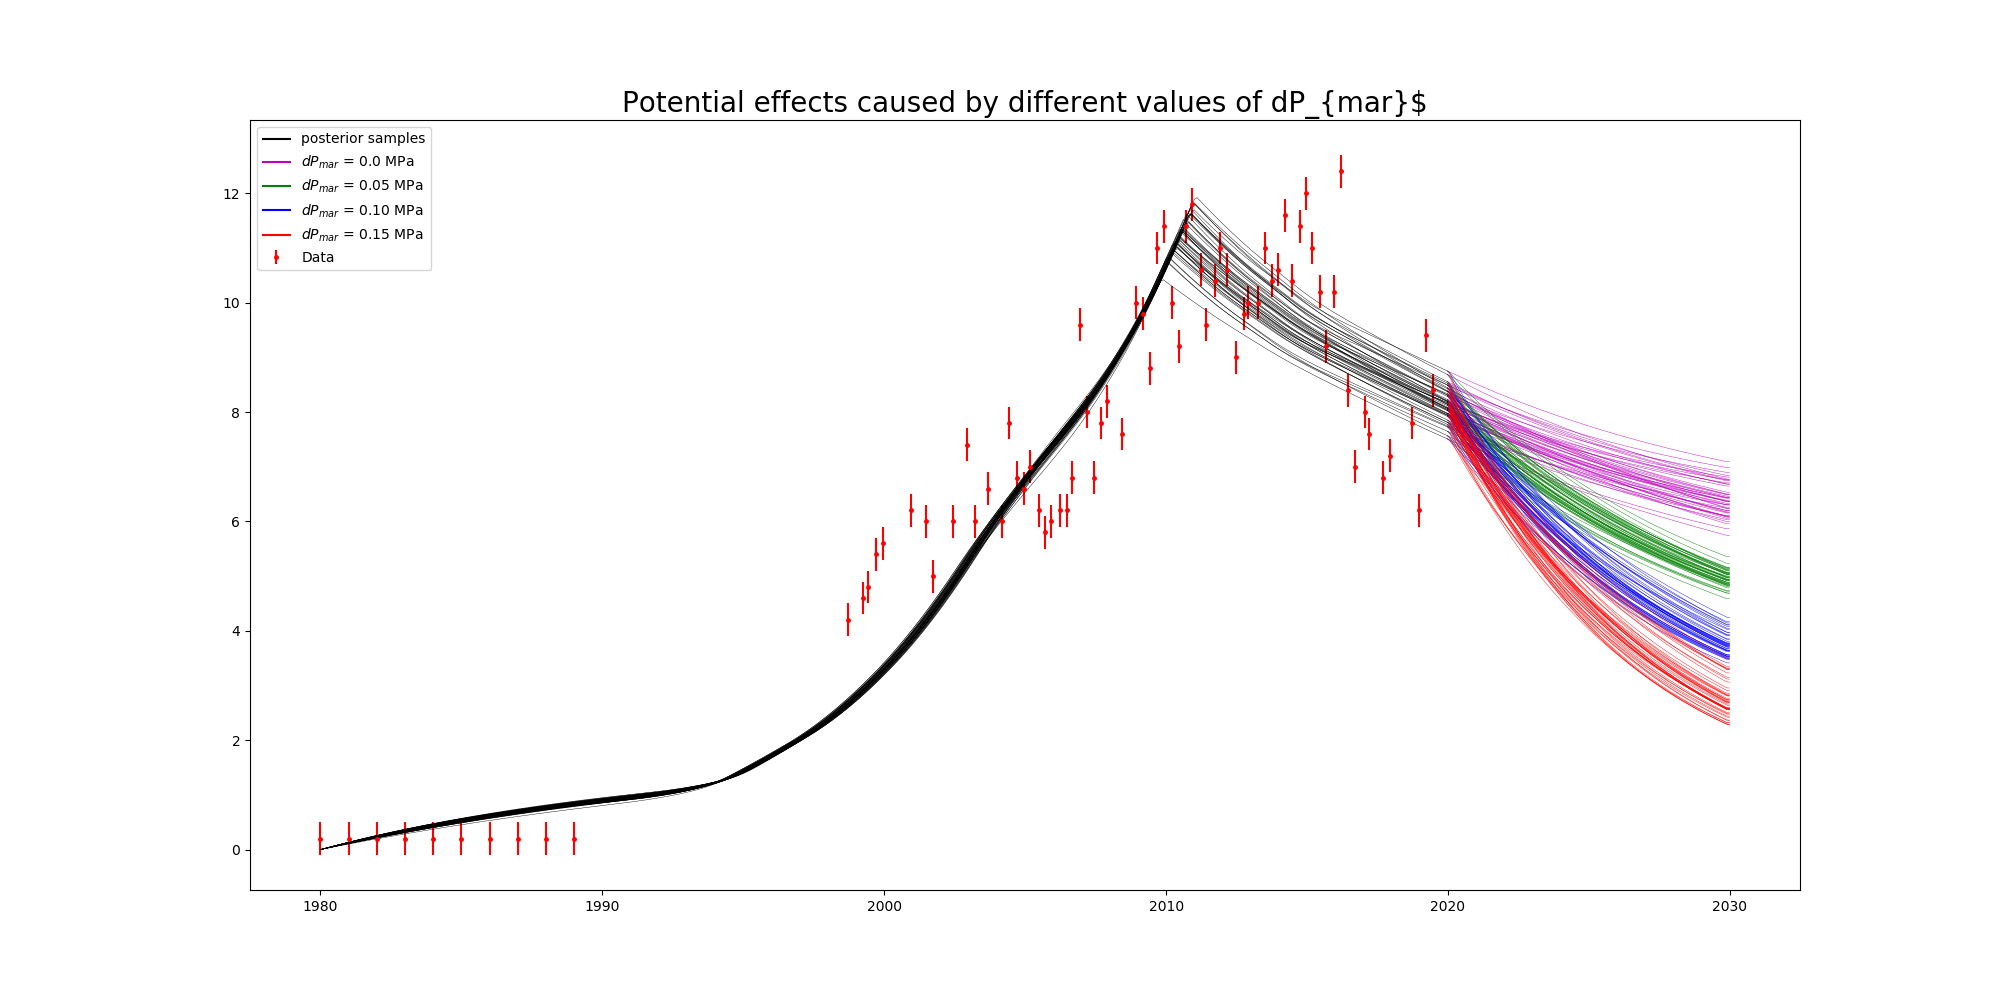
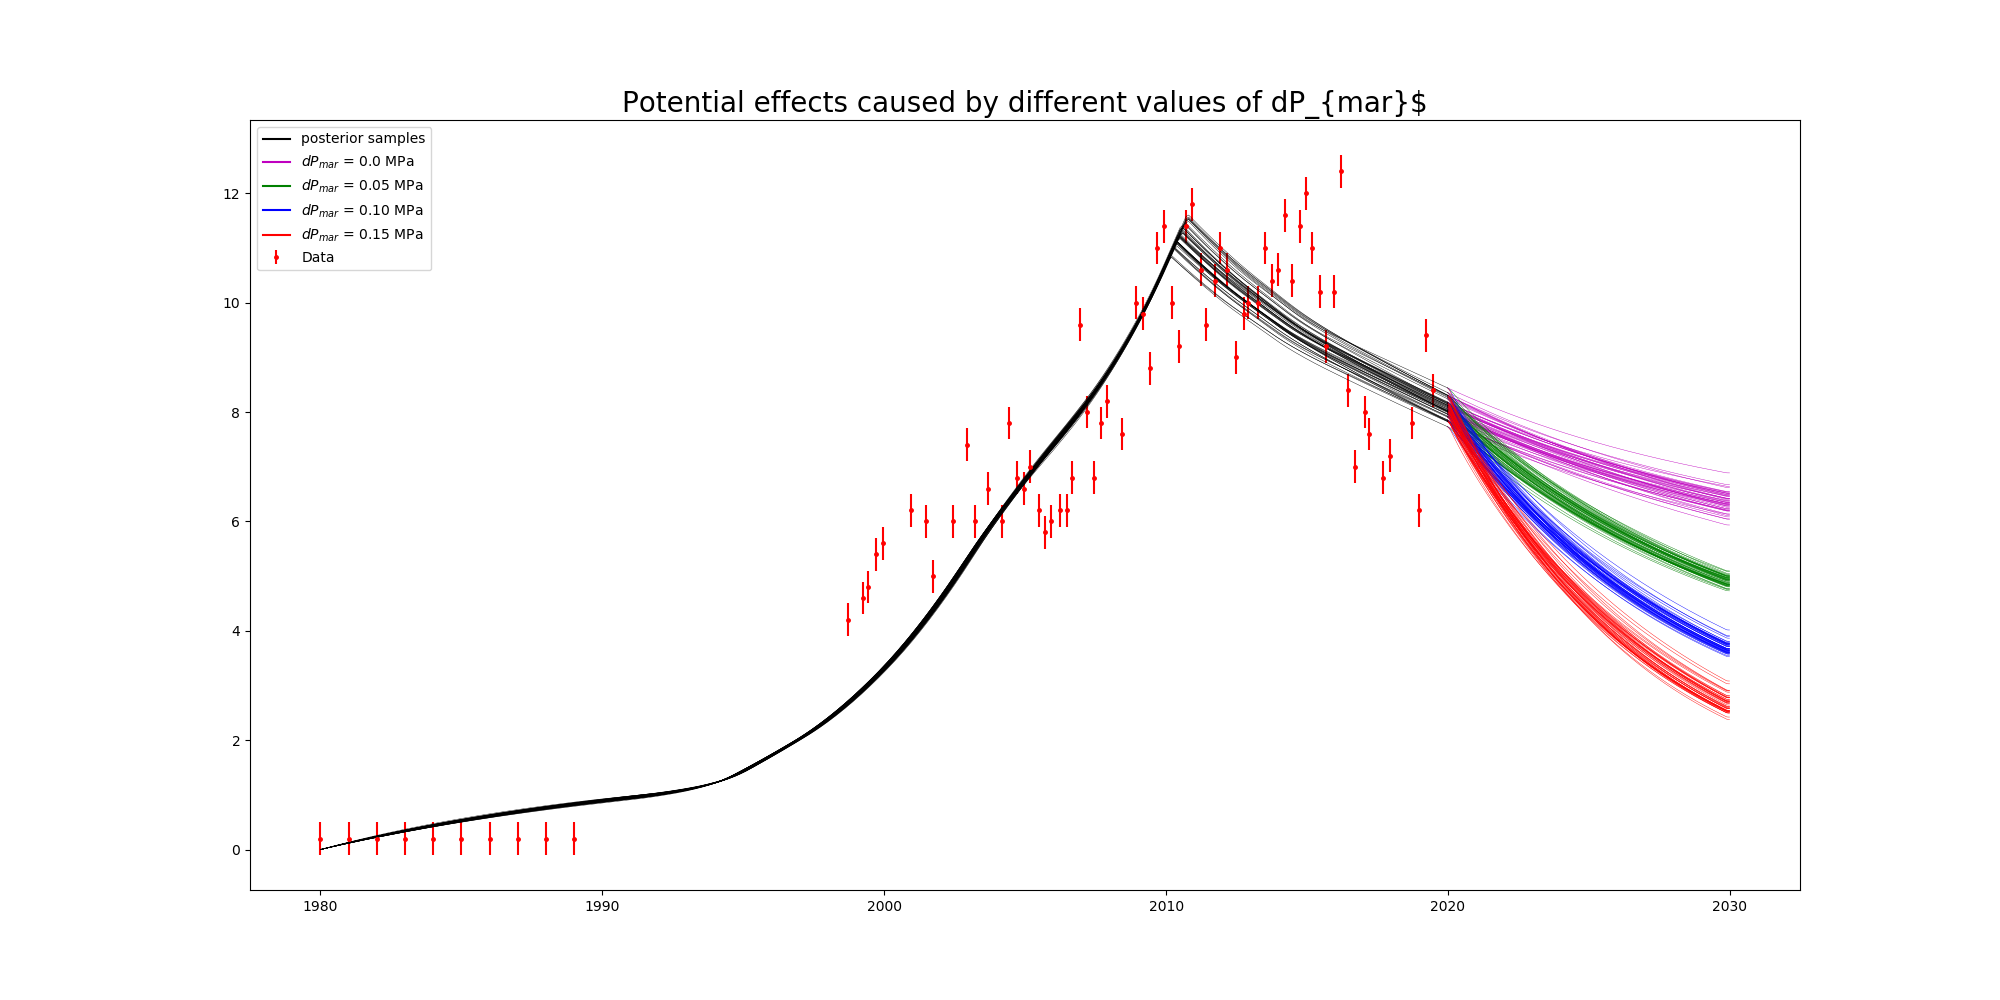
Absolute_sigma modifcation to curve_fit

diff --git a/model_functions.py b/model_functions.py
@@ -222,7 +222,7 @@ def posterior_pars():
     Returns
     -------
     pos : ndarray
-        Array of shape (N,) containing spread of parameter values
+        Array of shape (N,) containing alternative of parameter values
     p : array
         Optimal values of the parameters with minimal variance from data
     
@@ -231,12 +231,12 @@ def posterior_pars():
     Utilises other functions in the same file and requires no inputs
     '''
 
-    #sigma = [0.001]*len(c0) # variance limit of pars
+    sigma = [0.15]*len(c0) # uncertainty in data
 
     # calibrating model to data and creating covariance matrix
-    p, cov = curve_fit(LPM_Model,t0,c0, bounds=((0,0,0,0.5),(1e-04,np.inf,np.inf,np.inf))) 
+    p, cov = curve_fit(LPM_Model,t0,c0, sigma = sigma,bounds=((0,0,0,0.5),(1e-04,np.inf,np.inf,np.inf)), absolute_sigma=True)
     
-    cov = 0.04*cov
+    #cov = 0.04*cov
     pos = np.random.multivariate_normal(p, cov, 50) # random variates of the calibrated pars
     
     return pos, p

diff --git a/plotting_functions.py b/plotting_functions.py
@@ -87,6 +87,7 @@ def improved_model():
     plt.title("Improved Model", fontsize=20)
     ax.legend()
 
+    #plt.show()
     fig.savefig('Plots'+ os.sep +'improved_model.png', dpi = 200)
     plt.close(fig)
 
@@ -109,6 +110,7 @@ def what_ifs():
     tau = p[3]
 
     t_forecast = np.arange(2020,2030,step=0.05)
+    LPM_Model_forecast(t, b1, alpha, bc, tau, 0.1)
 
     fig = plt.figure(figsize=(20,10))
     ax = fig.add_subplot(111)

diff --git a/testing_functions.py b/testing_functions.py
@@ -106,7 +106,7 @@ def test_dCdt():
 
 def convergence_analysis():
     '''
-    Convergence analysis for our model.
+    sergence analysis for our model.
     This function finds the optimal step size for the time array in our model by testing the model at 2016 with 
     a variety of stepsizes.
     '''
